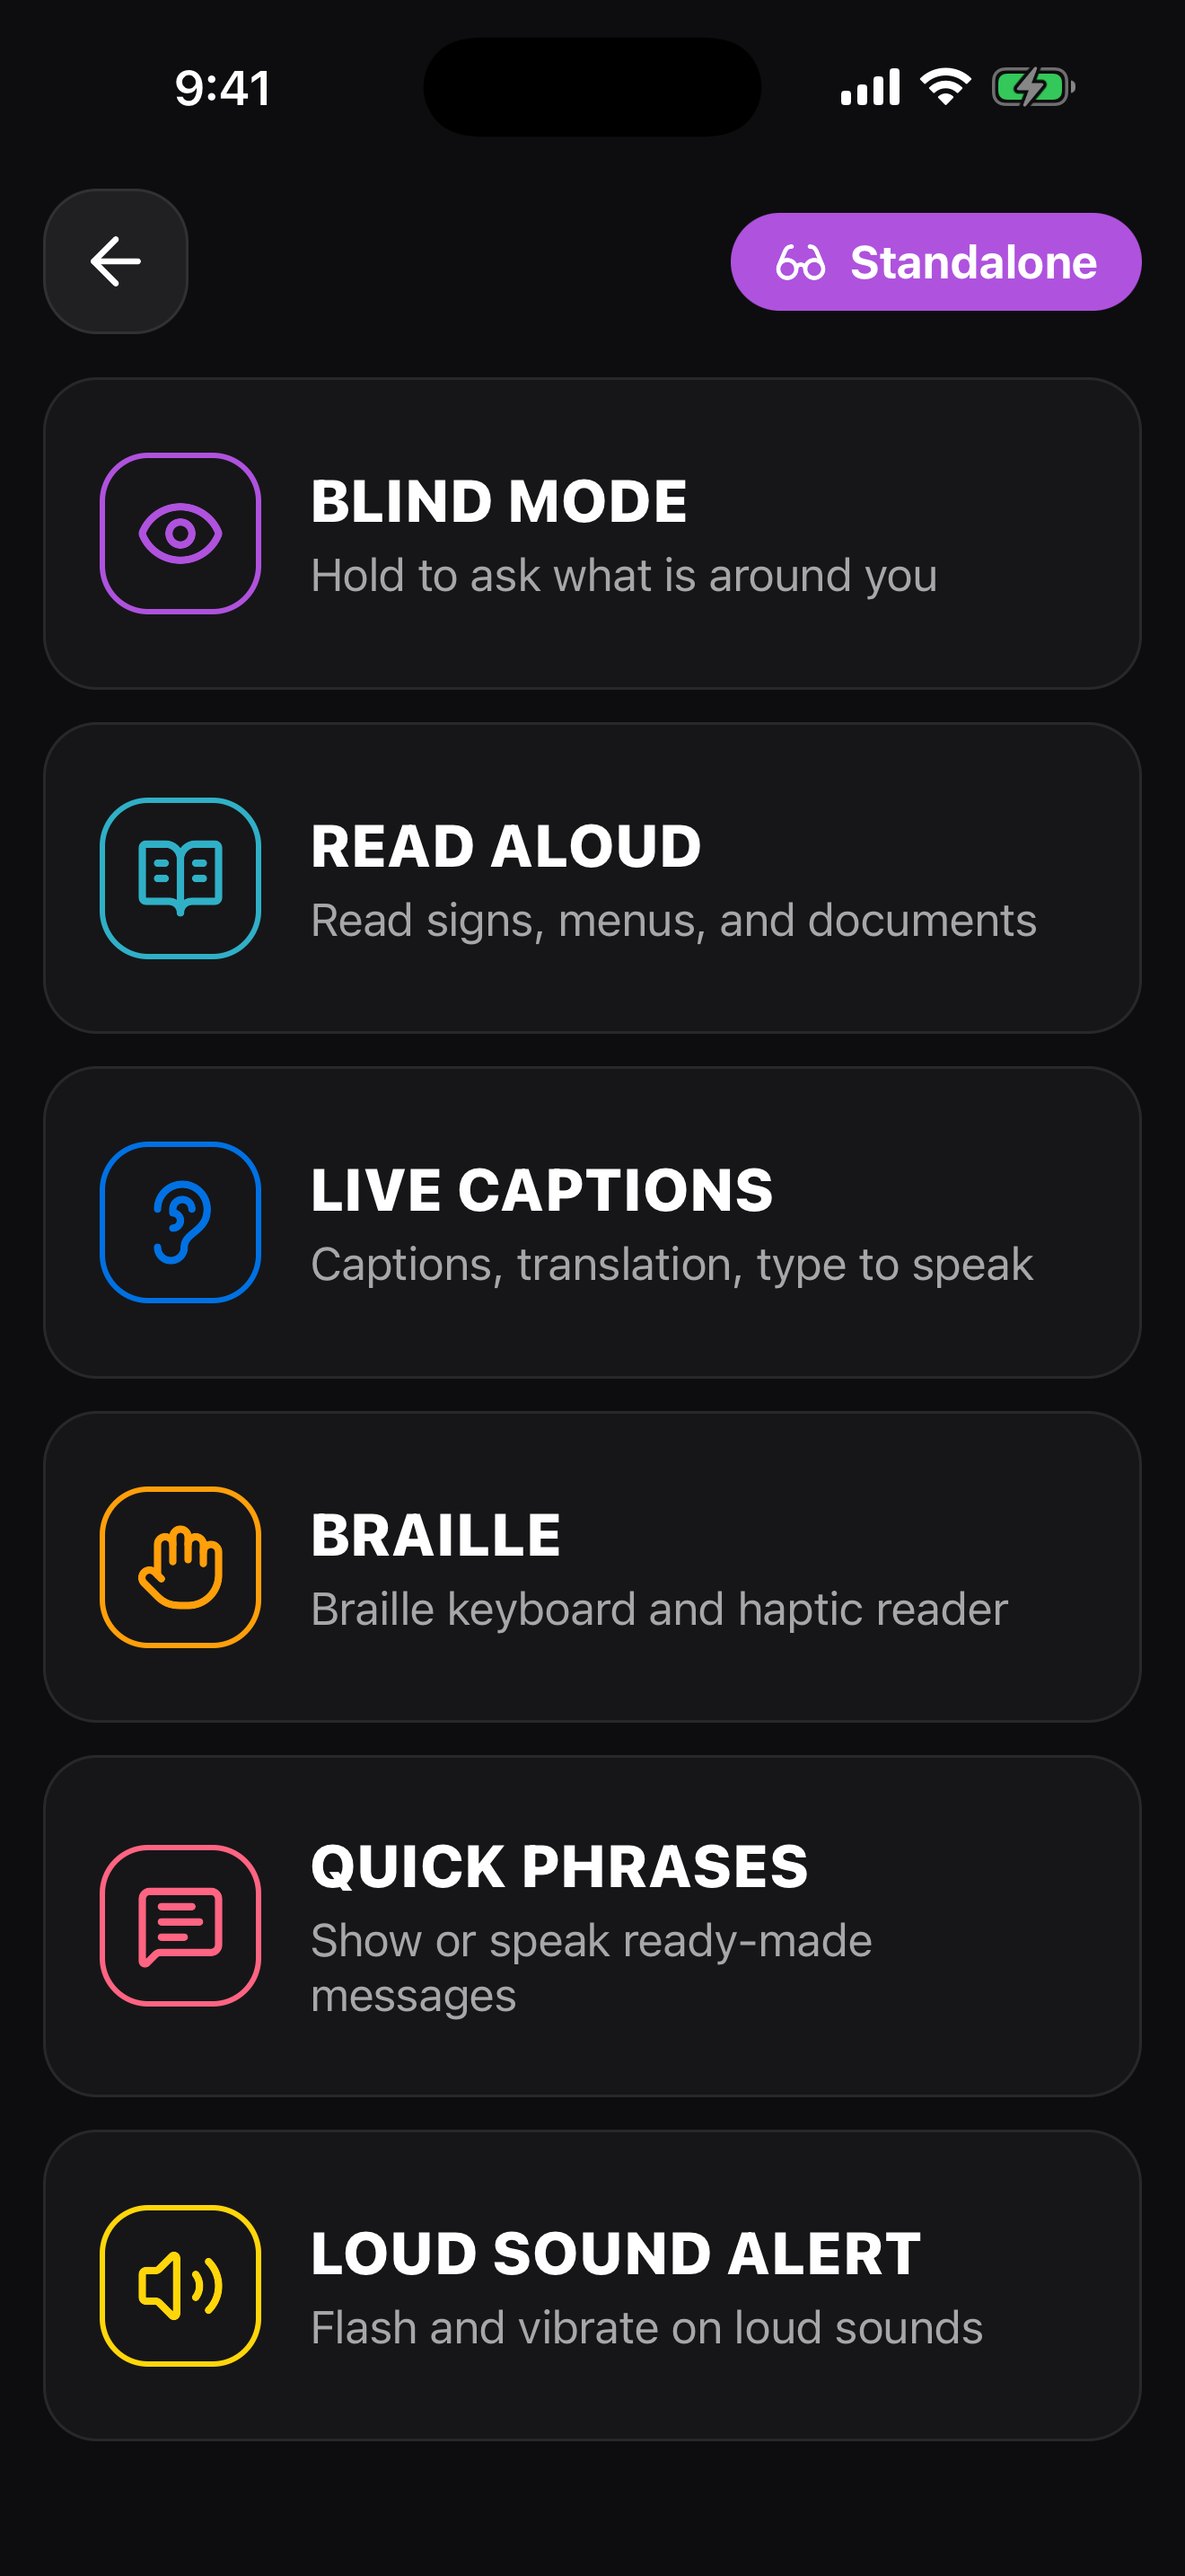
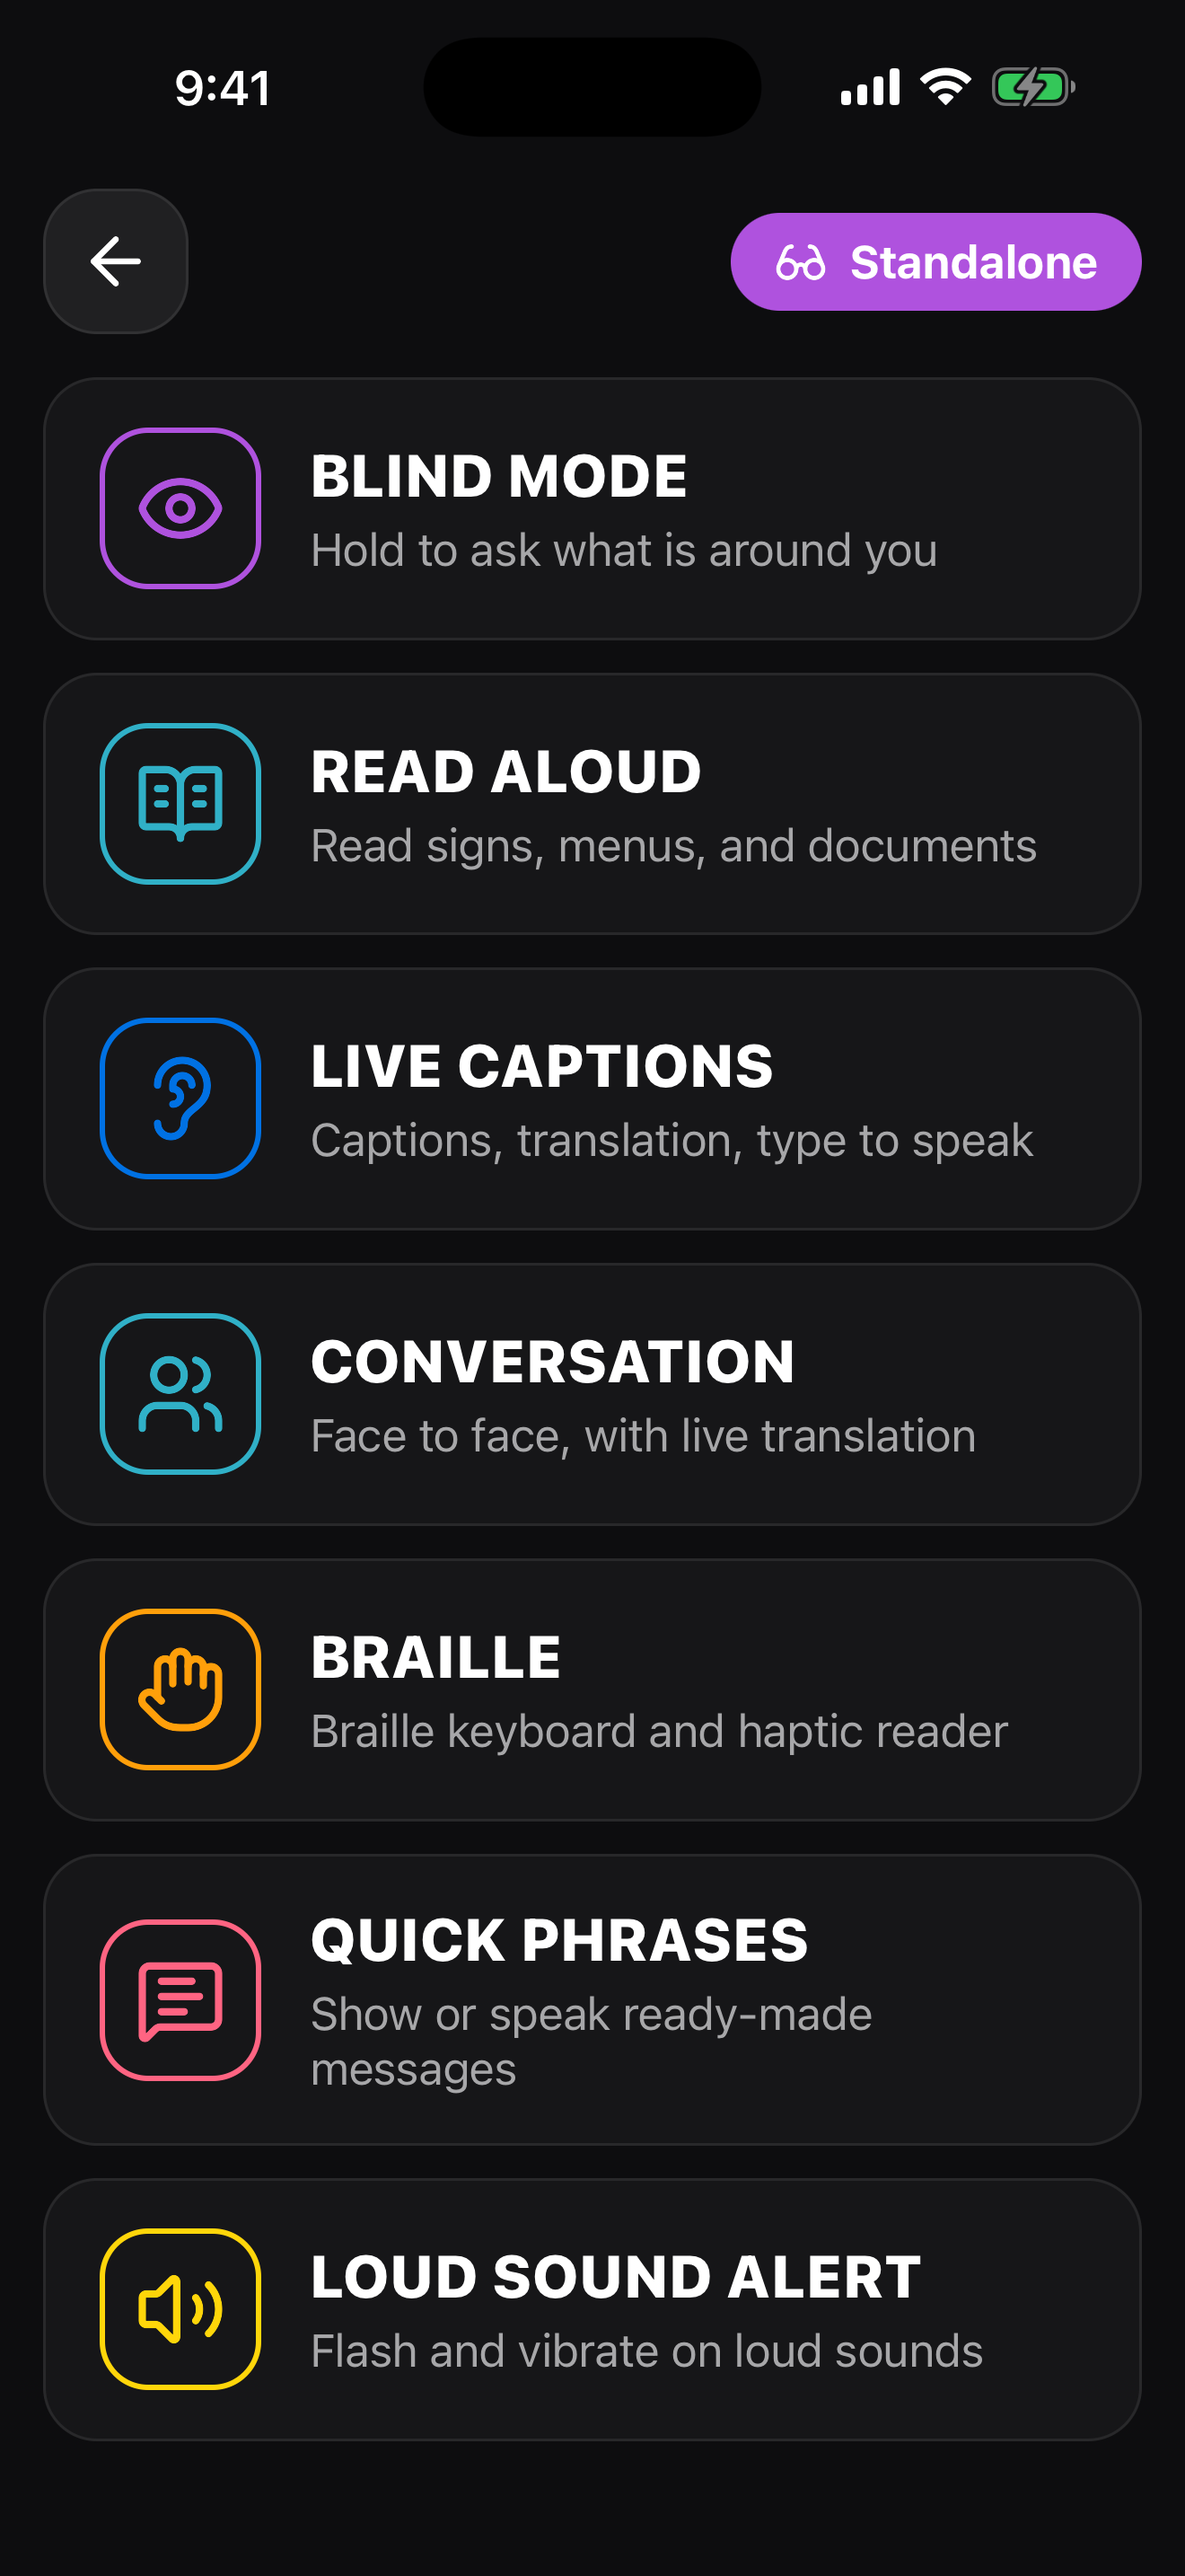
chore(store): refresh screenshots and review notes for new features

diff --git a/mobile/store/review-notes.md b/mobile/store/review-notes.md
@@ -13,6 +13,9 @@ How to test without any other device:
    - Blind Mode: point the camera at the room, press and hold the bottom of the screen, ask "What is in front of me?", release. Relay speaks a short description.
    - Read Aloud: point at any printed text and tap READ.
    - Live Captions: tap START CAPTIONS and speak. Captions appear in real time. The translate button at top right (two-letter "A 文" icon) turns on translation.
+   - Quick Ask (Blind Mode): tap Money, Color, Expiry date, or Sign for a one-tap answer.
+   - Conversation: type a reply and it is shown upside-down for the other person and spoken in their language.
+   - Settings > Name Alert: enter a name. When it is said in Live Captions, the phone vibrates and highlights it. Catch Me Up (clock icon) summarizes recent captions.
    - Braille, Quick Phrases, and Loud Sound Alert work fully offline.
 
 Connect to Computer features (Sound Alerts, Caption Mirror, Remote Mic) need the free Relay desktop app on the same Wi-Fi network:
